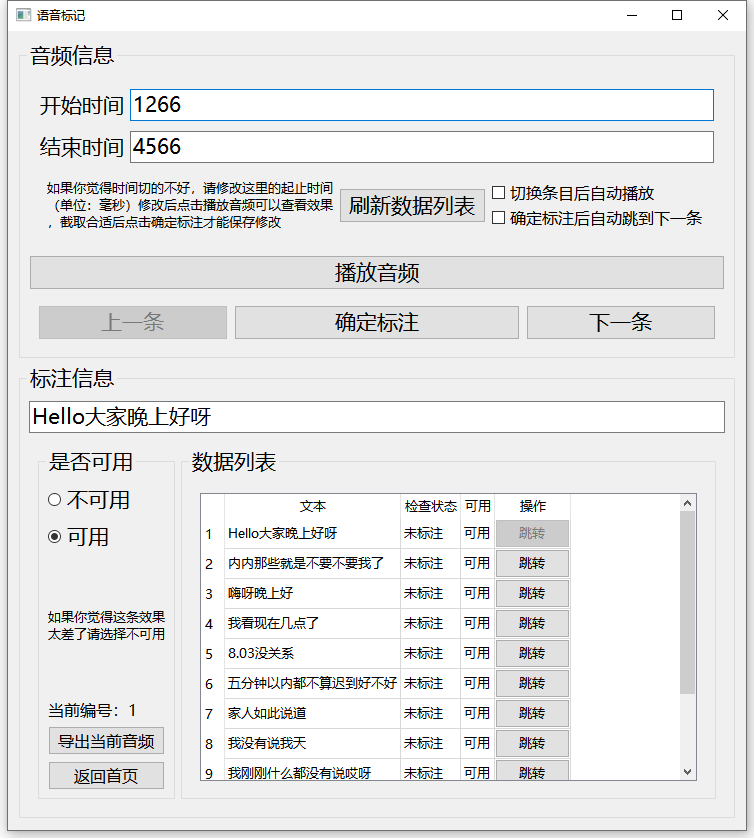
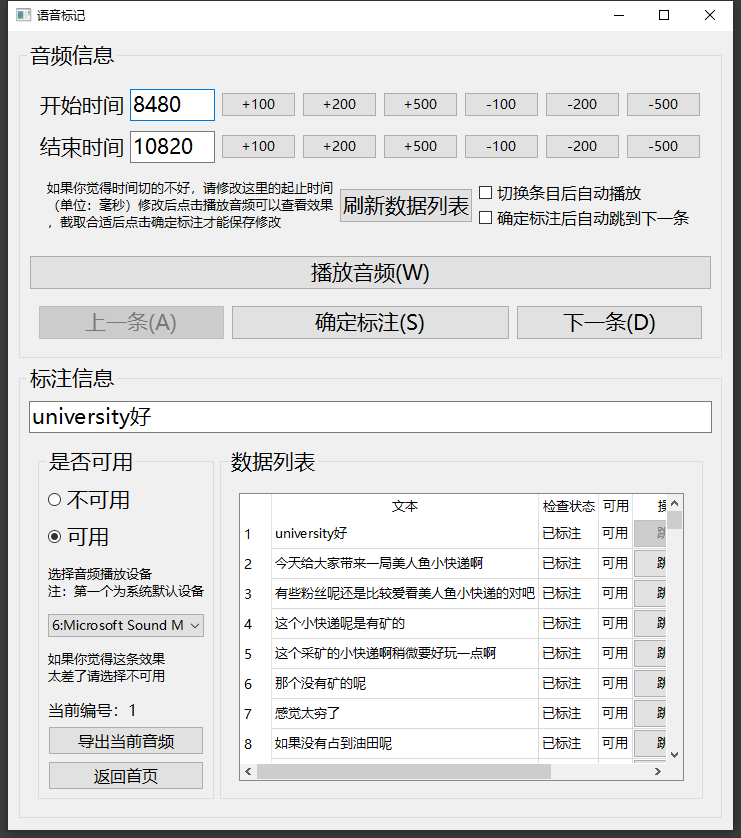
更新截图和readme文档

diff --git a/README.md b/README.md
@@ -65,12 +65,14 @@
 
 - 窗口右下角的数据列表展示了本数据集中的语句（从srt文件中提取得到），点击【跳转】可以使页面展示对应条目的音频标注信息。
 - 界面上方的起止时间表示了本条音频在总音频文件中的起止时间，点击【播放音频】按钮可以试听，如果觉得切割位置不对可以修改这两个值后再点击【播放音频】试听效果。注意：如果此时不点击【确定标注】按钮，则修改的起止时间不会保存。
+- 快捷调节时间按钮：点击可以快速加减起止时间
 - 【刷新数据列表】按钮的功能是刷新右下角的数据列表，当你修改音频的起止时间影响到音频顺序时你可以点击这个按钮更新列表信息。我不是很推荐做这么大的改动，可能会有bug（待测试）。而且这个按钮比较吃资源，没事不要点，作者之后会想办法优化。
 - 【上一条】【下一条】按钮：跳转到上一条或下一条音频信息。
 - 【确定标注】按钮：将页面中的数据保存到数据库中
 - 两个勾选框：功能如描述
 - 标注信息：本条音频对应的文本信息。
 - 是否可用：如果你觉得这条音频效果太烂了，加进去可能会影响训练效果，请选择不可用。
+- 选择音频播放设备：如果需要可以在此选择，默认选择为系统默认音频设备。注意：如果打开界面后修改了系统默认音频设备，则此处会顺序错乱，请重新打开此界面。
 - 导出当前音频：将目前页面上的起止时间划出的音频保存到 `filepath/output` 路径下 根据时间命名
 - 【返回首页]按钮：返回首页
 - 已知问题：当跳转按钮置灰时鼠标放上去滑动滚轮会无法滚动表格，作者太菜了不会改，谁知道怎么办务必教一下 感谢
